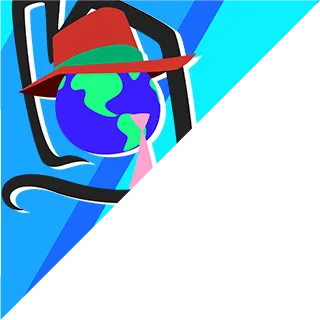
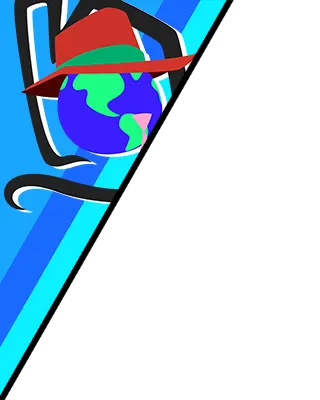
Added corner panels and updated chips

diff --git a/index.html b/index.html
@@ -29,11 +29,11 @@
 <body>
 	<a id="bh-logo-wrapper" href="https://linktr.ee/TheBeaverhouse" target="_blank">
 		<img id="bh-logo" alt="The Beaverhouse" title="The Beaverhouse Linktree" src="img/chips/bh.webp" width="64"
-			height="64">
+			height="80">
 	</a>
 	<a id="mod-logo-wrapper" href="https://linktr.ee/MaskofDestiny" target="_blank">
 		<img id="mod-logo" alt="Mask of Destiny" title="Mask of Destiny Linktree" src="img/chips/mod.webp" width="64"
-			height="64">
+			height="80">
 	</a>
 	<header id="header">
 		<div class="gfimg__container" onclick="window.location.href=''">
@@ -45,6 +45,12 @@
 		</div>	
 	</header>
 	<main>
+		<div id="overlays">
+			<div class="panels">
+				<img class="CornerPanelL" src="img/CornerPanelL.webp">
+				<img class="CornerPanelR" src="img/CornerPanelR.webp">
+			</div>
+		</div>	
 		<div id="splash">
 			<div class="landing">
 				<img class="splashlogo" src="img/GF5th-IconTrans.webp">
@@ -59,8 +65,7 @@
 		</div>
 	</main>
 	<footer>
-		<p>Site designed by <a href="https://linktr.ee/Vahkiti" target="_blank">Vahkiti</a> of <a
-				href="https://810nicleday.com/" target="_blank">810NICLE Day</a>.</p>
+		<p>Site designed by <a href="https://linktr.ee/Vahkiti" target="_blank">Vahkiti</a> of <a href="https://810nicleday.com/" target="_blank">810NICLE Day</a>.</p>
 	</footer>
 	<script>
 	function entersite() {

diff --git a/css/main.css b/css/main.css
@@ -103,6 +103,21 @@ div.landing img.splashtext {
 	max-width: 250px;
 }
 
+div.panels img.CornerPanelL {
+	max-height: 50%;
+	height: auto;
+	z-index: -1;
+	position: absolute;
+}
+
+div.panels img.CornerPanelR {
+	max-height: 50%;
+	height: auto;
+	z-index: -1;
+	position: absolute;
+	right: 0px;
+	bottom: 0px;
+}
 
 body {
     background-image: url("../img/Background.webp");
@@ -122,14 +137,6 @@ video {
     top: 0;
     left: 0;
     z-index: -100;
-}
-
-main {
-    margin: auto;
-    max-width: 80vw;
-    color: whitesmoke;
-    display: flex;
-    flex-direction: column;
 }
 
 main h1,
